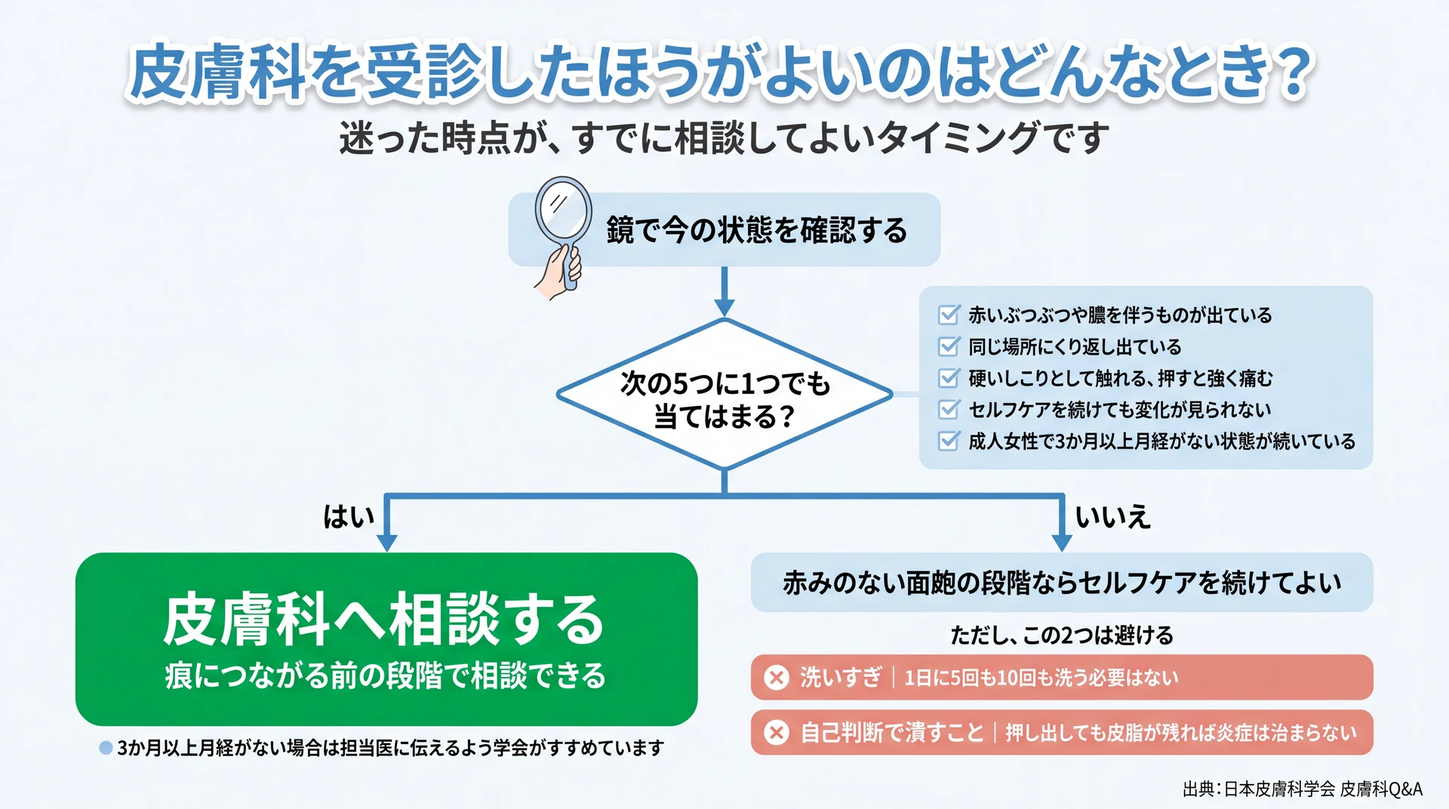
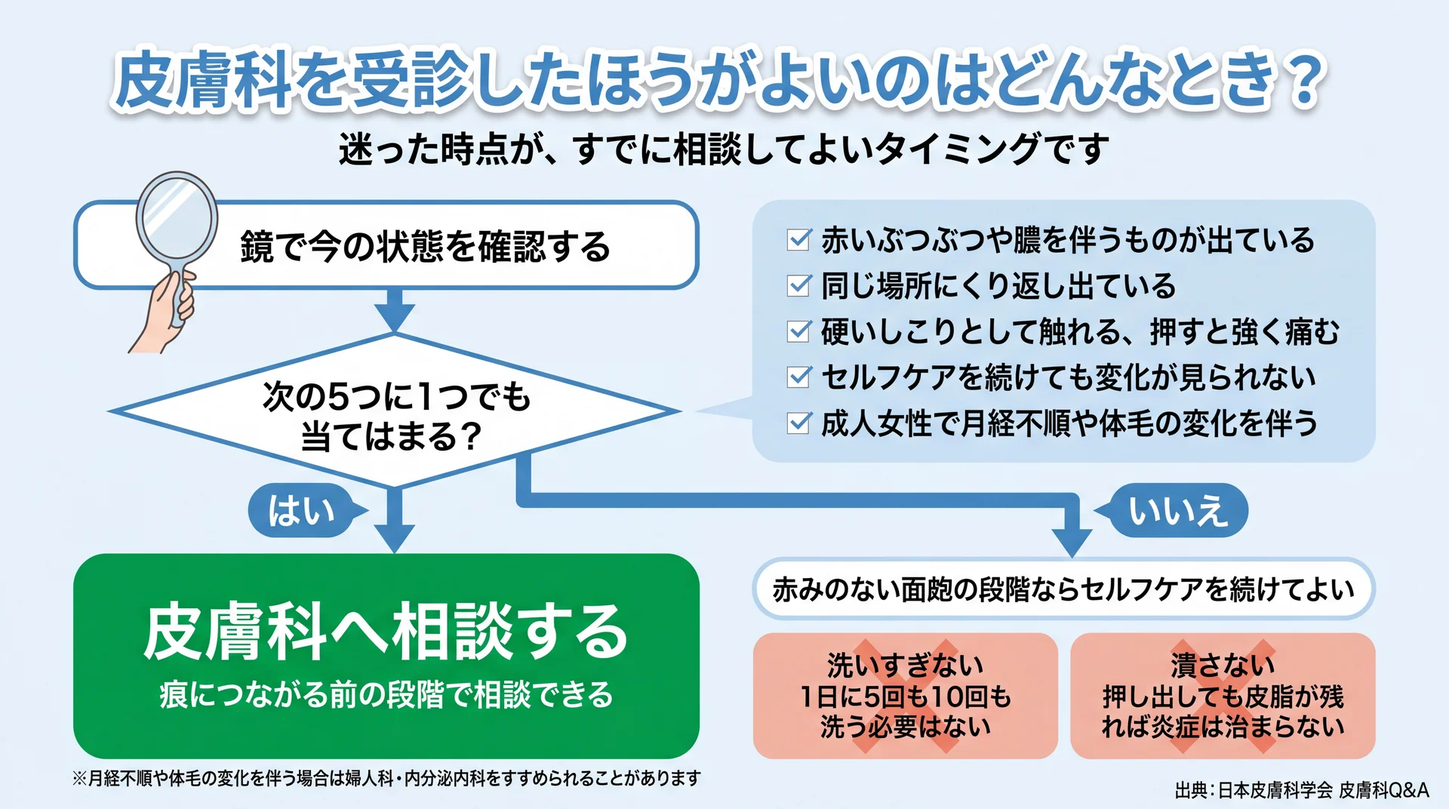
publish: orbis-clearful-acne-v3

diff --git a/2026/08/orbis-clearful-acne-v3.html b/2026/08/orbis-clearful-acne-v3.html
@@ -57,18 +57,18 @@
 </style><h1 style="font-size:32px; font-weight:700; margin:24px 0 16px; padding-bottom:10px; border-bottom:1px solid #eaeef2; line-height:1.3;">ニキビはなぜできる？毛穴の仕組みと皮膚科を受診する目安</h1>
 <p style="margin:14px 0; line-height:1.7;">ニキビは、毛穴に皮脂がたまるところから始まり、アクネ菌が増えて炎症へ進む皮膚の慢性の病気です。日本皮膚科学会は90%以上の人が経験するとしたうえで、早期の治療を勧めています。ただ、原因の説明を読んでも、自分が様子を見てよいのか受診すべきかまでは決まりません。仕組みと受診の目安を順に見ていきます。全体像は<a href="/contents/product/clearful/acne-column/acne-guide/" style="color:#0969da; text-decoration:none; border-bottom:1px solid #eaeef2;">ニキビができる仕組みと対策の全体像</a>にまとめています。</p>
 <h2 style="font-size:24px; font-weight:600; margin:32px 0 16px; padding-bottom:8px; border-bottom:1px solid #eaeef2; line-height:1.3;">ニキビとは？皮膚の慢性の炎症としての位置づけ</h2>
-<p style="margin:14px 0; line-height:1.7;"><img src="https://shun-toda.github.io/html-publish/2026/08/orbis-clearful-acne-v3/h2_01_%E3%83%8B%E3%82%AD%E3%83%93%E3%81%A8%E3%81%AF_%E4%BD%8D%E7%BD%AE%E3%81%A5%E3%81%91.webp" alt="軽症は化粧品で様子を見て悪化後に受診という以前の対応と、軽いうちから治療でき大人は保湿への配慮が要るという現在の前提を左右で対比した図" loading="lazy" style="max-width:100%; height:auto; display:block; margin:16px auto; border-radius:6px;" /><br><em>「軽症は化粧品で様子を見る」という前提は治療法の進歩で変わり、いまは軽いうちから医療機関で治療できる。左が以前の対応、右が現在の前提（＊イメージ／出典: 日本皮膚科学会 皮膚科Q&amp;Aを基に作成）</em></p>
-<p style="margin:14px 0; line-height:1.7;">ニキビは医学的に、毛穴で炎症が長く続く<strong>皮膚の慢性炎症性疾患</strong>として位置づけられています。日本皮膚科学会は、90%以上の人が経験する身近な病気としたうえで、悪化させると元に戻せない痕が残ることや、心理的な影響が大きいことを挙げ、できるだけ早期に治療を始めることを勧めています（<a href="https://qa.dermatol.or.jp/qa3/index.html" style="color:#0969da; text-decoration:none; border-bottom:1px solid #eaeef2;">日本皮膚科学会 皮膚科Q&amp;A</a>、2026年8月時点）。</p>
-<p style="margin:14px 0; line-height:1.7;">ほとんどの人が通る道であるために「そのうち治まるもの」として扱われやすいのですが、学会は<span style="background:linear-gradient(transparent 60%,#FFFF00 60%)"><strong>軽いうちから医療機関で治療できるようになった</strong></span>と説明しています。以前は軽症なら化粧品やスキンケアだけで対応するのが一般的でしたが、その前提は治療法の進歩で変わりました。珍しくないことと、放っておいてよいことは別に考えたほうが安全です。</p>
+<p style="margin:14px 0; line-height:1.7;"><img src="https://shun-toda.github.io/html-publish/2026/08/orbis-clearful-acne-v3/h2_01_%E3%83%8B%E3%82%AD%E3%83%93%E3%81%A8%E3%81%AF_%E4%BD%8D%E7%BD%AE%E3%81%A5%E3%81%91.webp" alt="軽症は化粧品で様子を見て悪化後に受診という以前の対応と、軽いうちから治療でき大人は保湿への配慮が要るという現在の前提を左右で対比した図" loading="lazy" style="max-width:100%; height:auto; display:block; margin:16px auto; border-radius:6px;" /><br><em>左が以前の一般的な対応、右が現在の前提。90%以上が経験する病気でも、対応の前提は治療法の進歩で変わっている（出典: 日本皮膚科学会 皮膚科Q&amp;Aを基に作成）</em></p>
+<p style="margin:14px 0; line-height:1.7;">ニキビは医学的に、毛穴で炎症が長く続く<strong>皮膚の慢性炎症性疾患</strong>として位置づけられています。日本皮膚科学会は、90%以上の人が経験する身近な病気としたうえで、悪化させると元に戻せない痕が残ることや、心理的な影響が大きいことを挙げ、できるだけ早期に治療を始めることを勧めています（<a href="https://qa.dermatol.or.jp/qa3/index.html" style="color:#0969da; text-decoration:none; border-bottom:1px solid #eaeef2;">日本皮膚科学会 皮膚科Q&amp;A</a>）。</p>
+<p style="margin:14px 0; line-height:1.7;">この位置づけは、日々の受け止め方と少しずれています。ほとんどの人が通る道であるために「そのうち治まるもの」として扱われやすい一方で、学会は<span style="background:linear-gradient(transparent 60%,#FFFF00 60%)"><strong>軽いうちから医療機関で治療できるようになった</strong></span>と説明しています。以前は軽症のうちは化粧品やスキンケアだけで対応し、ひどくなってから医療機関にかかるのが一般的でしたが、その前提は治療法の進歩によって変わりました（<a href="https://qa.dermatol.or.jp/qa3/index.html" style="color:#0969da; text-decoration:none; border-bottom:1px solid #eaeef2;">日本皮膚科学会</a>）。珍しくないことと、放っておいてよいことは別に考えたほうが安全です。</p>
 <h3 style="font-size:20px; font-weight:600; margin:24px 0 12px; line-height:1.3;">「ニキビ」と「吹き出物」は違うもの？</h3>
 <p style="margin:14px 0; line-height:1.7;">医学的には別のものではありません。大人になっても症状が続いたり、大人になって初めて出たりするものを一般に「大人のにきび」と呼び、<strong>医学用語では思春期後痤瘡（ししゅんきござそう）</strong>といいます（<a href="https://qa.dermatol.or.jp/qa3/q05.html" style="color:#0969da; text-decoration:none; border-bottom:1px solid #eaeef2;">日本皮膚科学会 Q5</a>）。</p>
-<p style="margin:14px 0; line-height:1.7;">呼び方が変わるのは年代の話であって、毛穴で起きていることの筋道は変わりません。学会も、大人のニキビの発症メカニズムは思春期のニキビと同じだと明記しています。違うのは悪化させる要因のほうで、大人では乾燥した肌の方が多く、思春期に比べて保湿への配慮が必要になる場合があります。<strong>10代のころと同じつもりでケアを続けると、条件のほうが変わっている</strong>ことになります。</p>
+<p style="margin:14px 0; line-height:1.7;">呼び方が変わるのは年代の話であって、毛穴で起きていることの筋道は変わりません。学会も、大人のニキビの発症メカニズムは思春期のニキビと同じだと明記しています。違うのは悪化させる要因のほうで、大人では乾燥した肌の方が多く、思春期に比べて保湿への配慮が必要になる場合があると説明されています。つまり、<strong>10代のころと同じつもりでケアを続けると、条件のほうが変わっている</strong>ことになります。年齢とともに呼び名が変わって混乱したときは、同じ病気の年代違いだと考えれば整理がつきます。</p>
 <h2 style="font-size:24px; font-weight:600; margin:32px 0 16px; padding-bottom:8px; border-bottom:1px solid #eaeef2; line-height:1.3;">ニキビができる仕組み──毛穴では何が起きているのか</h2>
-<p style="margin:14px 0; line-height:1.7;"><img src="https://shun-toda.github.io/html-publish/2026/08/orbis-clearful-acne-v3/h2_02_%E4%BB%95%E7%B5%84%E3%81%BF_%E6%AF%9B%E7%A9%B4.webp" alt="白・黒の面皰は無症状で丘疹から赤みが出るという境界を毛穴断面で示し、赤みの前後で取るべき行動を分けた図" loading="lazy" style="max-width:100%; height:auto; display:block; margin:16px auto; border-radius:6px;" /><br><em>赤みが出る前の2段階は無症状のため見過ごされ、「急にできた」ように感じられる。境界の手前は触らず洗顔も増やさない、境界の先は潰さず皮膚科へ（＊イメージ／出典: 日本皮膚科学会 皮膚科Q&amp;Aを基に作成）</em></p>
+<p style="margin:14px 0; line-height:1.7;"><img src="https://shun-toda.github.io/html-publish/2026/08/orbis-clearful-acne-v3/h2_02_%E4%BB%95%E7%B5%84%E3%81%BF_%E6%AF%9B%E7%A9%B4.webp" alt="白・黒の面皰は無症状で丘疹から赤みが出るという境界を毛穴断面で示し、赤みの前後で取るべき行動を分けた図" loading="lazy" style="max-width:100%; height:auto; display:block; margin:16px auto; border-radius:6px;" /><br><em>4段階を「赤みが出る前」と「出た後」に分け、境界の手前では触らない・洗顔を増やさない、境界の先では潰さず皮膚科へと読み分ける（出典: 日本皮膚科学会 皮膚科Q&amp;Aを基に作成）</em></p>
 <p style="margin:14px 0; line-height:1.7;">ニキビは、皮脂の分泌が多いことと毛穴の先が詰まることで、毛穴の中に皮脂がたまるところから始まります。この状態が面皰（めんぽう）です。面皰の中は皮脂が豊富で酸素が少なく、アクネ菌が増えやすい環境になり、菌が増えると炎症が起きます（<a href="https://qa.dermatol.or.jp/qa3/q03.html" style="color:#0969da; text-decoration:none; border-bottom:1px solid #eaeef2;">日本皮膚科学会 Q3</a>）。</p>
 <h3 style="font-size:20px; font-weight:600; margin:24px 0 12px; line-height:1.3;">① 皮脂がたまり、毛穴の先が詰まる（面皰）</h3>
 <p style="margin:14px 0; line-height:1.7;">最初に起きるのは、毛穴の出口がふさがって行き場をなくした皮脂がたまることです。この段階が面皰で、<strong>毛穴の先が閉じているものが白ニキビ、先が開いているものが黒ニキビ</strong>と呼ばれます（<a href="https://qa.dermatol.or.jp/qa3/q02.html" style="color:#0969da; text-decoration:none; border-bottom:1px solid #eaeef2;">日本皮膚科学会 Q2</a>）。</p>
-<p style="margin:14px 0; line-height:1.7;">この段階では赤みも痛みもまだ出ていません。目立つ症状がないため見過ごされたまま次へ進みます。ニキビが「急にできた」ように感じられるのは、<strong>見えにくい段階を経てから表面に現れる</strong>ためです。</p>
+<p style="margin:14px 0; line-height:1.7;">注目したいのは、赤みも痛みもまだ出ていないという点です。目立つ症状がないため、この段階は見過ごされたまま次へ進みます。ニキビが「急にできた」ように感じられるのは、実際には<strong>見えにくい段階を経てから表面に現れる</strong>ためです。</p>
 <h3 style="font-size:20px; font-weight:600; margin:24px 0 12px; line-height:1.3;">② 面皰の中でアクネ菌が増える</h3>
 <p style="margin:14px 0; line-height:1.7;">アクネ菌（Cutibacterium acnes、旧称 Propionibacterium acnes）は、<strong>どんな毛穴にもいる常在菌</strong>です。特別な菌が外から入ってくるわけではありません（<a href="https://qa.dermatol.or.jp/qa3/q03.html" style="color:#0969da; text-decoration:none; border-bottom:1px solid #eaeef2;">日本皮膚科学会 Q3</a>）。</p>
 <p style="margin:14px 0; line-height:1.7;">問題になるのは菌の存在そのものではなく、数が増えることです。面皰の中は皮脂が多く酸素が少ないため、アクネ菌にとって増えやすい条件がそろいます。<span style="color:red"><strong>肌をていねいに洗っていても、毛穴の中に皮脂がたまれば同じ条件が生まれます。</strong></span>ここが、洗えば洗うほどよいという発想が当てはまらない理由です。</p>
@@ -76,7 +76,7 @@
 <p style="margin:14px 0; line-height:1.7;">アクネ菌が増えると炎症が起き、赤いぶつぶつ（丘疹）になります。炎症が進むと膿がたまったぶつぶつ（膿疱）へ、さらに強くなると皮膚の下に膿の袋ができたり（嚢腫）、硬く大きく触れる状態（結節）になったりします（<a href="https://qa.dermatol.or.jp/qa3/q02.html" style="color:#0969da; text-decoration:none; border-bottom:1px solid #eaeef2;">日本皮膚科学会 Q2</a>）。</p>
 <p style="margin:14px 0; line-height:1.7;">炎症が治まって平らになった後の赤み（炎症後紅斑）は一時的なもので、時間とともに消えていきます。一方で炎症が強いと、盛り上がった痕やへこんだ痕が残ることがあります。<strong>この差が、早い段階で手を打つかどうかで生まれます。</strong></p>
 <h4 style="font-size:17px; font-weight:600; margin:20px 0 10px; line-height:1.3;">毛穴で起きる4段階と、その段階でできる判断</h4>
-<p style="margin:14px 0; line-height:1.7;">実際のニキビは面皰・丘疹・膿疱・炎症後紅斑などが混じって現れますが、いま自分の肌のどこに重心があるかは見た目から判別できます。</p>
+<p style="margin:14px 0; line-height:1.7;">実際のニキビは面皰・丘疹・膿疱・炎症後紅斑などが混じって現れるため、すべてが順番どおりに並ぶわけではありません。それでも、いま自分の肌のどこに重心があるかは見た目から判別できます。</p>
 <div style="overflow-x:auto; margin:18px 0;"><table style="border-collapse:collapse; width:100%; font-size:14px;">
 <thead style="background:#f6f8fa;">
 <tr>
@@ -111,19 +111,19 @@
 <td style="border:1px solid #d0d7de; padding:8px 12px;">痕が残ることがあるため皮膚科へ</td>
 </tr>
 </tbody></table></div>
-<p style="margin:14px 0; line-height:1.7;">段階の区分と各段階の定義は日本皮膚科学会 皮膚科Q&amp;A（Q2）の記述に基づき、「鏡で確認できること」と「この段階での判断」の2列は当社が読者向けに整理したものです。</p>
+<p style="margin:14px 0; line-height:1.7;">段階の区分と各段階の定義は<a href="https://qa.dermatol.or.jp/qa3/q02.html" style="color:#0969da; text-decoration:none; border-bottom:1px solid #eaeef2;">日本皮膚科学会 皮膚科Q&amp;A</a>の記述に基づき、「鏡で確認できること」と「この段階での判断」の2列はクリアフルが読者向けに整理したものです。</p>
 <p style="margin:14px 0; line-height:1.7;">段階ごとの見分け方と、それぞれに向くお手入れの分岐は、<a href="/contents/product/clearful/acne-column/acne-types/" style="color:#0969da; text-decoration:none; border-bottom:1px solid #eaeef2;">白・黒・赤・黄のニキビの見分け方</a>で詳しく扱っています。</p>
 <h2 style="font-size:24px; font-weight:600; margin:32px 0 16px; padding-bottom:8px; border-bottom:1px solid #eaeef2; line-height:1.3;">皮膚科を受診したほうがよいのはどんなとき？</h2>
 <p style="margin:14px 0; line-height:1.7;"><img src="https://shun-toda.github.io/html-publish/2026/08/orbis-clearful-acne-v3/h2_03_%E7%9A%AE%E8%86%9A%E7%A7%91_%E5%8F%97%E8%A8%BA%E7%9B%AE%E5%AE%89.webp" alt="受診を検討する5つのサインで分岐させ、該当しない場合は洗いすぎと潰すことを避けてセルフケアを続けると示した判定フロー図" loading="lazy" style="max-width:100%; height:auto; display:block; margin:16px auto; border-radius:6px;" /><br><em>鏡で確認し、5つのサインに1つでも当てはまれば皮膚科へ。当てはまらない場合も洗いすぎと押し出しは避ける（出典: 日本皮膚科学会 皮膚科Q&amp;Aを基に作成）</em></p>
 <p style="margin:14px 0; line-height:1.7;">赤みや膿を伴う段階に進んでいるとき、セルフケアを続けても変化がないときは、皮膚科の受診をおすすめします。硬いしこりとして触れる場合も同様です。ニキビは毛穴に関係する慢性の炎症であり、<strong>基本的に皮膚科の守備範囲</strong>です（<a href="https://qa.dermatol.or.jp/qa3/q16.html" style="color:#0969da; text-decoration:none; border-bottom:1px solid #eaeef2;">日本皮膚科学会 Q16</a>）。</p>
 <h3 style="font-size:20px; font-weight:600; margin:24px 0 12px; line-height:1.3;">受診を検討したいサイン</h3>
-<p style="margin:14px 0; line-height:1.7;">学会が挙げる情報を、判断しやすい形に並べると次のようになります。以下は一般的な目安であり、個別の症状の判断は皮膚科医にご相談ください。</p>
+<p style="margin:14px 0; line-height:1.7;">学会が挙げる情報を、判断しやすい形に並べると次のようになります。</p>
 <ul style="margin:14px 0; padding-left:1.6em; line-height:1.7;">
 <li style="margin:4px 0;"><strong>赤いぶつぶつや膿を伴うものが出ている</strong>（炎症が起きている段階で、痕につながりうる）</li>
 <li style="margin:4px 0;"><strong>同じ場所にくり返し出ている</strong></li>
 <li style="margin:4px 0;">硬いしこりとして触れる、押すと強く痛む</li>
 <li style="margin:4px 0;">セルフケアを続けても変化が見られない</li>
-<li style="margin:4px 0;">成人女性で、3か月以上月経がない状態が続いている（多嚢胞性卵巣症候群によるホルモン異常の可能性があるため、学会は担当医に伝えるようすすめています。<a href="https://qa.dermatol.or.jp/qa3/q07.html" style="color:#0969da; text-decoration:none; border-bottom:1px solid #eaeef2;">日本皮膚科学会 Q7</a>）</li>
+<li style="margin:4px 0;">成人女性で月経不順や体毛の変化を伴う（この場合は婦人科・内分泌内科をすすめられることがあります）</li>
 </ul>
 <p style="margin:14px 0; line-height:1.7;">学会は「軽症のうちは化粧品やスキンケアだけで対応」という以前の常識が変わったことを明記しています。<span style="background:linear-gradient(transparent 60%,#FFFF00 60%)"><strong>まだ軽いから、を受診しない理由にしなくてよくなりました。</strong></span>迷った時点が、すでに相談してよいタイミングだと考えて差し支えありません。</p>
 <h3 style="font-size:20px; font-weight:600; margin:24px 0 12px; line-height:1.3;">セルフケアを続けてよい範囲と、避けたいこと</h3>
@@ -132,8 +132,9 @@
 <p style="margin:14px 0; line-height:1.7;">2つ目は<strong>潰すこと</strong>です。ニキビの本質は毛穴に皮脂がたまっている状態のため、膿を押し出しても皮脂が残っていれば炎症は治まらず、中途半端に押すことでかえって悪化することがあります（<a href="https://qa.dermatol.or.jp/qa3/q23.html" style="color:#0969da; text-decoration:none; border-bottom:1px solid #eaeef2;">日本皮膚科学会 Q23</a>）。今あるニキビへの手当ての順番は<a href="/contents/product/clearful/acne-column/acne-care-steps/" style="color:#0969da; text-decoration:none; border-bottom:1px solid #eaeef2;">ニキビを落ち着かせるための手順</a>で扱っています。</p>
 <p style="margin:14px 0; line-height:1.7;"><strong>要点:</strong> 赤みや膿が出ている段階は受診の検討時期にあたり、その手前の段階でやるべきことは「洗う回数を増やすこと」でも「押し出すこと」でもありません。</p>
 <h2 style="font-size:24px; font-weight:600; margin:32px 0 16px; padding-bottom:8px; border-bottom:1px solid #eaeef2; line-height:1.3;">市販薬・処方薬とスキンケアは何が違う？</h2>
-<p style="margin:14px 0; line-height:1.7;"><img src="https://shun-toda.github.io/html-publish/2026/08/orbis-clearful-acne-v3/h2_04_%E5%87%A6%E6%96%B9%E8%96%AC_%E3%82%B9%E3%82%AD%E3%83%B3%E3%82%B1%E3%82%A2.webp" alt="症状が出ている期間は処方薬が主役で落ち着いた期間は維持療法、スキンケアは全期間を通じて毎日続ける側と示した時間軸の役割分担図" loading="lazy" style="max-width:100%; height:auto; display:block; margin:16px auto; border-radius:6px;" /><br><em>処方薬とスキンケアは優劣ではなく担当する時期が違う。症状が出ている間の主役は治療で、スキンケアは全期間を通じて毎日続ける側にある（出典: 日本皮膚科学会 皮膚科Q&amp;Aを基に作成）</em></p>
+<p style="margin:14px 0; line-height:1.7;"><img src="https://shun-toda.github.io/html-publish/2026/08/orbis-clearful-acne-v3/h2_04_%E5%87%A6%E6%96%B9%E8%96%AC_%E3%82%B9%E3%82%AD%E3%83%B3%E3%82%B1%E3%82%A2.webp" alt="症状が出ている期間は処方薬が主役で落ち着いた期間は維持療法、スキンケアは全期間を通じて毎日続ける側と示した時間軸の役割分担図" loading="lazy" style="max-width:100%; height:auto; display:block; margin:16px auto; border-radius:6px;" /><br><em>横軸を症状の時期に取ると、処方薬とスキンケアは優劣ではなく担当する時間帯が違うことが分かる（出典: 日本皮膚科学会 皮膚科Q&amp;Aを基に作成）</em></p>
 <p style="margin:14px 0; line-height:1.7;">日本皮膚科学会は、化粧品や医薬部外品について、予防的な作用があるものもあるが<strong>ニキビの治療薬ではない</strong>と明記しています。一方、病院で処方される薬は有効性が十分に確認されたうえで厚生労働省の承認を得たものです（<a href="https://qa.dermatol.or.jp/qa3/q13.html" style="color:#0969da; text-decoration:none; border-bottom:1px solid #eaeef2;">日本皮膚科学会 Q13</a>）。</p>
+<p style="margin:14px 0; line-height:1.7;">この線引きは、売り手の側からは書かれにくい内容です。どちらが優れているかという話ではなく、<strong>役割が別々に定まっている</strong>という話になります。</p>
 <h4 style="font-size:17px; font-weight:600; margin:20px 0 10px; line-height:1.3;">スキンケアと処方薬を3つの軸で並べる</h4>
 <div style="overflow-x:auto; margin:18px 0;"><table style="border-collapse:collapse; width:100%; font-size:14px;">
 <thead style="background:#f6f8fa;">
@@ -164,16 +165,16 @@
 <td style="border:1px solid #d0d7de; padding:8px 12px;">学会ガイドラインが強く推奨する薬（アダパレン、過酸化ベンゾイル、抗生物質 など）</td>
 </tr>
 </tbody></table></div>
-<p style="margin:14px 0; line-height:1.7;">3分類の位置づけは<a href="https://qa.dermatol.or.jp/qa3/q13.html" style="color:#0969da; text-decoration:none; border-bottom:1px solid #eaeef2;">日本皮膚科学会 Q13</a>、処方薬の具体は<a href="https://qa.dermatol.or.jp/qa3/q08.html" style="color:#0969da; text-decoration:none; border-bottom:1px solid #eaeef2;">同 Q8</a>の記述に基づき、「使い続け方」「選ぶ人」の2軸は当社が整理したものです。</p>
-<p style="margin:14px 0; line-height:1.7;">学会は、赤いぶつぶつが落ち着いた後も、アダパレンや過酸化ベンゾイルで再発を防ぐ維持療法を続けるのが標準的だとしています。治療の側でも「症状が消えたら終わり」ではありません。つまり、<strong>薬でスキンケアを代替せず、スキンケアで薬を代替しない</strong>という使い分けになります。</p>
+<p style="margin:14px 0; line-height:1.7;">3分類の位置づけは<a href="https://qa.dermatol.or.jp/qa3/q13.html" style="color:#0969da; text-decoration:none; border-bottom:1px solid #eaeef2;">日本皮膚科学会 Q13</a>、処方薬の具体は<a href="https://qa.dermatol.or.jp/qa3/q08.html" style="color:#0969da; text-decoration:none; border-bottom:1px solid #eaeef2;">同 Q8</a>の記述に基づき、「使い続け方」「選ぶ人」の2軸はクリアフルが整理したものです。</p>
+<p style="margin:14px 0; line-height:1.7;">学会は、赤いぶつぶつが落ち着いた後も、アダパレンや過酸化ベンゾイルで再発を防ぐ維持療法を続けるのが標準的だとしています。つまり治療の側でも「症状が消えたら終わり」ではありません。読者にとっての含意はひとつで、<strong>薬でスキンケアを代替せず、スキンケアで薬を代替しない</strong>という使い分けになります。</p>
 <p style="margin:14px 0; line-height:1.7;"><strong>要点:</strong> 症状が出ている間の主役は皮膚科の治療であり、スキンケアはその前後を通じて毎日続ける側にあります。</p>
 <!-- wp:group {"style":{"border":{"radius":"16px","color":"#70C27E","style":"solid","width":"1px"},"spacing":{"padding":{"top":"24px","right":"20px","bottom":"24px","left":"20px"}}},"layout":{"type":"constrained"}} -->
 <div class="wp-block-group has-border-color" style="border-color:#70C27E;border-style:solid;border-width:1px;border-radius:16px;padding-top:24px;padding-right:20px;padding-bottom:24px;padding-left:20px">
 <!-- wp:paragraph {"align":"center","style":{"typography":{"fontWeight":"700"}}} -->
-<p class="has-text-align-center" style="font-weight:700">＼ オルビス初回限定980円（税込）・約2週間分 ／</p>
+<p class="has-text-align-center" style="font-weight:700">＼ 14日間分980円・送料無料 ／</p>
 <!-- /wp:paragraph -->
 <!-- wp:paragraph {"align":"center"} -->
-<p class="has-text-align-center">この特別セットは、洗顔料・化粧水・保湿液の3STEPすべてが医薬部外品です。</p>
+<p class="has-text-align-center">洗顔・化粧水・保湿液の3STEPすべてが医薬部外品のスターターセットです。</p>
 <!-- /wp:paragraph -->
 <!-- wp:buttons {"layout":{"type":"flex","justifyContent":"center"}} -->
 <div class="wp-block-buttons is-content-justification-center is-layout-flex wp-container-content-justification-center wp-block-buttons-is-layout-flex"><!-- wp:button {"style":{"border":{"radius":"999px"},"color":{"background":"#00981B","text":"#ffffff"}}} -->
@@ -184,35 +185,34 @@
 <!-- /wp:group --><h2 style="font-size:24px; font-weight:600; margin:32px 0 16px; padding-bottom:8px; border-bottom:1px solid #eaeef2; line-height:1.3;">毎日のスキンケアで押さえたい基準</h2>
 <p style="margin:14px 0; line-height:1.7;">日本皮膚科学会は、洗顔は1日2回、洗顔料をよく泡立てて手で優しく洗い、十分な水で洗い流すことをすすめています。そのうえで基礎化粧品については、<strong>ノンコメドジェニック、あるいはハイポコメドジェニックと明記されたもの</strong>を選ぶよう示しています（<a href="https://qa.dermatol.or.jp/qa3/q25.html" style="color:#0969da; text-decoration:none; border-bottom:1px solid #eaeef2;">日本皮膚科学会 Q25</a>）。</p>
 <h3 style="font-size:20px; font-weight:600; margin:24px 0 12px; line-height:1.3;">学会が示す選び方の目安</h3>
-<p style="margin:14px 0; line-height:1.7;">学会は「保湿をしましょう」で止めず、<strong>表示そのものを判断材料に挙げています</strong>。成分名をひとつずつ見比べても、その製品が毛穴を詰まらせにくいかどうかまではわかりません。だからこそ、パッケージや商品ページの表示が実用的な手がかりになります。洗顔後の乾燥が気になる場合は保湿用の化粧品や保湿剤を併用してよいこと、保湿剤も同じ表示を目安に選ぶことも、あわせて示されています。<span style="background:linear-gradient(transparent 60%,#FFFF00 60%)"><strong>洗う・保湿する・表示を確かめる。この3つが、自分で判断できる範囲です。</strong></span></p>
-<p style="margin:14px 0; line-height:1.7;">ただし、この表示はコメド（ニキビのもと）ができないことを保証するものではありません。あくまで目安として使い、肌に合わないと感じたら使用を中止してください。</p>
+<p style="margin:14px 0; line-height:1.7;">「保湿をしましょう」で終わる情報は多く見かけますが、学会は一歩踏み込んで<strong>表示を判断材料に挙げています</strong>。成分名を一つずつ見比べても、その製品が毛穴を詰まらせにくいかどうかまでは分かりません。だからこそ、パッケージや商品ページに書かれた表示が実用的な手がかりになります。</p>
+<p style="margin:14px 0; line-height:1.7;">洗顔後の乾燥が気になる場合は保湿用の化粧品や保湿剤を併用してよいこと、保湿剤も同じ表示を目安に選ぶことも、あわせて示されています。<span style="background:linear-gradient(transparent 60%,#FFFF00 60%)"><strong>洗う・保湿する・表示を確かめる。この3つが、自分で判断できる範囲です。</strong></span></p>
 <h3 style="font-size:20px; font-weight:600; margin:24px 0 12px; line-height:1.3;">オルビスの見解──なぜ3STEPすべてを医薬部外品にしているのか</h3>
-<p style="margin:14px 0; line-height:1.7;"><img src="https://shun-toda.github.io/html-publish/2026/08/orbis-clearful-acne-v3/clearful_3step.webp" alt="左から洗顔料クリアフル ウォッシュ、化粧水クリアフル ローションL、保湿液クリアフル モイスチャーLの3品を並べた商品写真" loading="lazy" style="max-width:100%; height:auto; display:block; margin:16px auto; border-radius:6px;" /><br><em>洗顔料・化粧水・保湿液の3STEP。写真はいずれも本品サイズです</em></p>
-<p style="margin:14px 0; line-height:1.7;">毎日のお手入れでできることは、洗浄で汚れを取り除くことと、ニキビ・肌荒れを防ぐ有効成分を肌に届けることの2つです。<strong>クリアフルは、ニキビ＊1のお手入れとして、この2つを洗顔料・化粧水・保湿液の3STEPに分けて組み立てています。</strong></p>
-<p style="margin:14px 0; line-height:1.7;">3STEPすべてが医薬部外品で、いずれにもグリチルリチン酸ジカリウム（甘草由来）＊2を配合しています。バリア機能の低下に着目した和漢植物由来成分＊3と、保水型コラーゲン＊4もあわせて配合しています（<a href="https://www.orbis.co.jp/contents/product/clearful/" style="color:#0969da; text-decoration:none; border-bottom:1px solid #eaeef2;">オルビス クリアフル</a>）。ノンコメドジェニックテスト済みです（※すべての人にコメド〈ニキビのもと〉ができないというわけではありません）。</p>
-<p style="margin:14px 0; line-height:1.7;">＊1 ニキビ・肌荒れを防ぐ<br>＊2 ニキビ・肌荒れ防止有効成分<br>＊3 紫根エキス（整肌成分）、アロエエキス(2)（保湿成分）、ヨクイニンエキス（保湿成分）、ヨモギエキス（保湿成分）<br>＊4 水溶性コラーゲン液（保湿成分）</p>
-<p style="margin:14px 0; line-height:1.7;">そのうえで、<strong>学会が示す「治療薬ではない」という線引きをクリアフルは否定しません。</strong>治療の代わりに置くものではなく、治療の前後を通じて毎日続けるお手入れとして位置づけています。症状が出ているときは皮膚科の治療を優先し、落ち着いている期間にこそ日常のケアを積み重ねる。この順序をおすすめします。</p>
+<p style="margin:14px 0; line-height:1.7;">ここまで見てきたとおり、ニキビは毛穴に皮脂がたまることと、そこで炎症が起きることの両方がそろって進みます。片方だけを想定したケアでは、もう片方の条件が残ります。<strong>クリアフルは、この両方に同時に向き合う設計をとっています。</strong></p>
+<p style="margin:14px 0; line-height:1.7;">洗顔・化粧水・保湿液の3STEPすべてを医薬部外品とし、ニキビ・肌荒れ防止有効成分であるグリチルリチン酸ジカリウム（甘草由来）を配合したニキビ＊1のお手入れができる設計です。この有効成分について、オルビスは「ニキビや肌荒れを防止し、硬くごわついた肌を、荒れにくくすこやかな肌へ整えます」と説明しています。あわせて、バリア機能の低下と乾燥に向けて5種の和漢植物由来成分＋コラーゲンを配合し、「バリア機能を維持して保湿し、ニキビ・肌荒れを防ぎます」としています。</p>
+<p style="margin:14px 0; line-height:1.7;">成分ごとの働きも公開されており、紫根エキス＊2は「乾燥などによる肌の乱れに働きかけ、肌に本来備わっている機能を整えます」、アロエエキス＊3は「水分蒸散を抑えてすこやかな肌に整える」、ハトムギエキス＊4は「キメを整え、うるおいを保つ」、ヨモギエキス＊5は「肌をすこやかに保つ」、保水型コラーゲン＊6は「小さな分子で肌深く＊7まで浸透しうるおいをつなぎとめる」と示されています（<a href="https://www.orbis.co.jp/contents/product/clearful/" style="color:#0969da; text-decoration:none; border-bottom:1px solid #eaeef2;">オルビス クリアフル</a>）。ノンコメドジェニックテスト済みです（※すべての人にコメド〈ニキビのもと〉ができないというわけではありません）。</p>
+<p style="margin:14px 0; line-height:1.7;">＊1 ニキビ・肌荒れを防ぐ<br>＊2 紫根エキス（表示名称: シコニン）＝肌コンディションを整える整肌成分<br>＊3 アロエエキス（表示名称: アロエエキス（2））＝植物性保湿成分<br>＊4 ハトムギエキス（表示名称: ヨクイニンエキス）＝植物性保湿成分<br>＊5 ヨモギエキス＝植物性保湿成分<br>＊6 保水型コラーゲン（表示名称: 水溶性コラーゲン液）＝肌にうるおいとハリを与える保湿成分<br>＊7 角層まで</p>
+<p style="margin:14px 0; line-height:1.7;">そのうえで、<strong>学会が示す「治療薬ではない」という線引きをクリアフルは否定しません。</strong>治療の代わりに置くものではなく、治療の前後を通じて毎日続ける土台として位置づけています。症状が出ているときは皮膚科の治療を優先し、落ち着いている期間にこそ日常のケアを積み重ねる。この順序をおすすめします。</p>
 <p style="margin:14px 0; line-height:1.7;">なお、同じ場所にくり返し出る場合は部位ごとに要因の傾向が異なります。詳しくは<a href="/contents/product/clearful/acne-column/acne-location-map/" style="color:#0969da; text-decoration:none; border-bottom:1px solid #eaeef2;">ニキビができる場所ごとの原因の違い</a>で扱っています。睡眠との関係は<a href="/contents/product/clearful/acne-column/sleep-and-acne/" style="color:#0969da; text-decoration:none; border-bottom:1px solid #eaeef2;">睡眠不足とニキビ</a>、大人特有の要因は<a href="/contents/product/clearful/acne-column/adult-acne-causes/" style="color:#0969da; text-decoration:none; border-bottom:1px solid #eaeef2;">大人のニキビの原因</a>、食事や栄養素の整理は<a href="/contents/product/clearful/acne-column/acne-nutrition/" style="color:#0969da; text-decoration:none; border-bottom:1px solid #eaeef2;">ニキビと栄養素</a>をご覧ください。</p>
 <h2 style="font-size:24px; font-weight:600; margin:32px 0 16px; padding-bottom:8px; border-bottom:1px solid #eaeef2; line-height:1.3;">よくある質問</h2>
 <p style="margin:14px 0; line-height:1.7;"><strong>Q. セルフケアで様子を見てよいのは、どのくらいの期間ですか？</strong></p>
-<p style="margin:14px 0; line-height:1.7;">明確な日数の基準は示されていません。軸になるのは期間より状態で、赤みや膿を伴う段階に進んだ時点、続けても変化が見られない時点が受診の目安です。学会は早期に治療を始めることをすすめているため（<a href="https://qa.dermatol.or.jp/qa3/q01.html" style="color:#0969da; text-decoration:none; border-bottom:1px solid #eaeef2;">日本皮膚科学会 Q1</a>）、様子見を長く延ばすメリットはありません。</p>
+<p style="margin:14px 0; line-height:1.7;">明確な日数の基準は示されていません。判断の軸になるのは期間より状態で、赤みや膿を伴う段階に進んだ時点、あるいは続けても変化が見られない時点が受診の目安になります。学会は早期に治療を始めることをすすめているため（<a href="https://qa.dermatol.or.jp/qa3/q01.html" style="color:#0969da; text-decoration:none; border-bottom:1px solid #eaeef2;">日本皮膚科学会 Q1</a>）、様子見を長く延ばすメリットはありません。</p>
 <p style="margin:14px 0; line-height:1.7;"><strong>Q. 洗顔の回数は多いほうがよいですか？</strong></p>
 <p style="margin:14px 0; line-height:1.7;">多いほうがよいということはありません。学会は洗顔を1日2回としており、強くこすったり1日に5回も10回も洗ったりすると炎症が起きて悪化すると説明しています（<a href="https://qa.dermatol.or.jp/qa3/q18.html" style="color:#0969da; text-decoration:none; border-bottom:1px solid #eaeef2;">日本皮膚科学会 Q18</a>）。メイクをしている場合は先にメイクを落としてから洗顔します。</p>
 <p style="margin:14px 0; line-height:1.7;"><strong>Q. 食べ物はニキビに関係しますか？</strong></p>
-<p style="margin:14px 0; line-height:1.7;">チョコレートやケーキ、ピーナッツなどとニキビの因果関係は明確になっていません。特定の食べ物で症状が軽くなるという話もないため、やみくもに制限せずバランスよく摂ることがすすめられています（<a href="https://qa.dermatol.or.jp/qa3/q19.html" style="color:#0969da; text-decoration:none; border-bottom:1px solid #eaeef2;">日本皮膚科学会 Q19</a>）。栄養素ごとの整理は<a href="/contents/product/clearful/acne-column/acne-nutrition/" style="color:#0969da; text-decoration:none; border-bottom:1px solid #eaeef2;">ニキビと栄養素</a>で扱っています。</p>
+<p style="margin:14px 0; line-height:1.7;">チョコレートやケーキ、ピーナッツなどとニキビの因果関係は明確になっていません。特定の食べ物で改善するという話もないため、やみくもに制限せずバランスよく摂ることがすすめられています（<a href="https://qa.dermatol.or.jp/qa3/q19.html" style="color:#0969da; text-decoration:none; border-bottom:1px solid #eaeef2;">日本皮膚科学会 Q19</a>）。栄養素ごとの整理は<a href="/contents/product/clearful/acne-column/acne-nutrition/" style="color:#0969da; text-decoration:none; border-bottom:1px solid #eaeef2;">ニキビと栄養素</a>で扱っています。</p>
 <p style="margin:14px 0; line-height:1.7;"><strong>Q. ニキビは遺伝しますか？</strong></p>
 <p style="margin:14px 0; line-height:1.7;">9割以上の人がかかる病気であるため、家族にニキビの人がいるのは普通のことです。一卵性双生児で皮脂の分泌量が同じでも重症度は違ったという海外のデータもあり、学会は遺伝をあまり心配する必要はないと説明しています（<a href="https://qa.dermatol.or.jp/qa3/q06.html" style="color:#0969da; text-decoration:none; border-bottom:1px solid #eaeef2;">日本皮膚科学会 Q6</a>）。</p>
 <p style="margin:14px 0; line-height:1.7;">部位別・種類別・生活習慣まで含めた全体像は、<a href="/contents/product/clearful/acne-column/acne-guide/" style="color:#0969da; text-decoration:none; border-bottom:1px solid #eaeef2;">ニキビの原因と対策をまとめた総合ガイド</a>にまとめています。</p>
 <h2 style="font-size:24px; font-weight:600; margin:32px 0 16px; padding-bottom:8px; border-bottom:1px solid #eaeef2; line-height:1.3;">まとめ</h2>
 <p style="margin:14px 0; line-height:1.7;">ニキビは毛穴に皮脂がたまるところから始まり、アクネ菌が増えて炎症へ進む慢性の病気です。赤みや膿が出ている段階は皮膚科の受診を検討する時期にあたり、その手前でやることは洗う回数を増やすことでも押し出すことでもありません。日々のスキンケアは治療の代わりではなく、表示を確かめて選び、落ち着いている期間に続けるものです。まずは今の自分の肌がどの段階にあるかを鏡で確かめ、迷う段階なら皮膚科へ相談してみてください。</p>
-<p style="margin:14px 0; line-height:1.7;"><img src="https://shun-toda.github.io/html-publish/2026/08/orbis-clearful-acne-v3/clearful_set_naiyou.webp" alt="洗顔料・化粧水・保湿液のトライアルサイズ3品と外箱、化粧水と保湿液のパウチ4包、泡立てネット、オルビスのオリジナルヘアバンドを並べたセット内容の写真" loading="lazy" style="max-width:100%; height:auto; display:block; margin:16px auto; border-radius:6px;" /><br><em>※お届け商品はトライアルサイズとなります。写真はセット内容の一例で、内容は変更される場合があります</em></p>
 <!-- wp:group {"style":{"border":{"radius":"16px","color":"#70C27E","style":"solid","width":"1px"},"spacing":{"padding":{"top":"24px","right":"20px","bottom":"24px","left":"20px"}}},"layout":{"type":"constrained"}} -->
 <div class="wp-block-group has-border-color" style="border-color:#70C27E;border-style:solid;border-width:1px;border-radius:16px;padding-top:24px;padding-right:20px;padding-bottom:24px;padding-left:20px">
 <!-- wp:paragraph {"align":"center","style":{"typography":{"fontWeight":"700"}}} -->
-<p class="has-text-align-center" style="font-weight:700">＼ オルビス初回限定・980円（税込）で約2週間 ／</p>
+<p class="has-text-align-center" style="font-weight:700">＼ 980円で3STEPを2週間 ／</p>
 <!-- /wp:paragraph -->
 <!-- wp:paragraph {"align":"center"} -->
-<p class="has-text-align-center">さっぱりのLとしっとりのM、肌に合うタイプを選べます。</p>
+<p class="has-text-align-center">さっぱりのLとしっとりのM、どちらが肌に合うかを試せます。</p>
 <!-- /wp:paragraph -->
 <!-- wp:buttons {"layout":{"type":"flex","justifyContent":"center"}} -->
 <div class="wp-block-buttons is-content-justification-center is-layout-flex wp-container-content-justification-center wp-block-buttons-is-layout-flex"><!-- wp:button {"style":{"border":{"radius":"999px"},"color":{"background":"#00981B","text":"#ffffff"}}} -->
